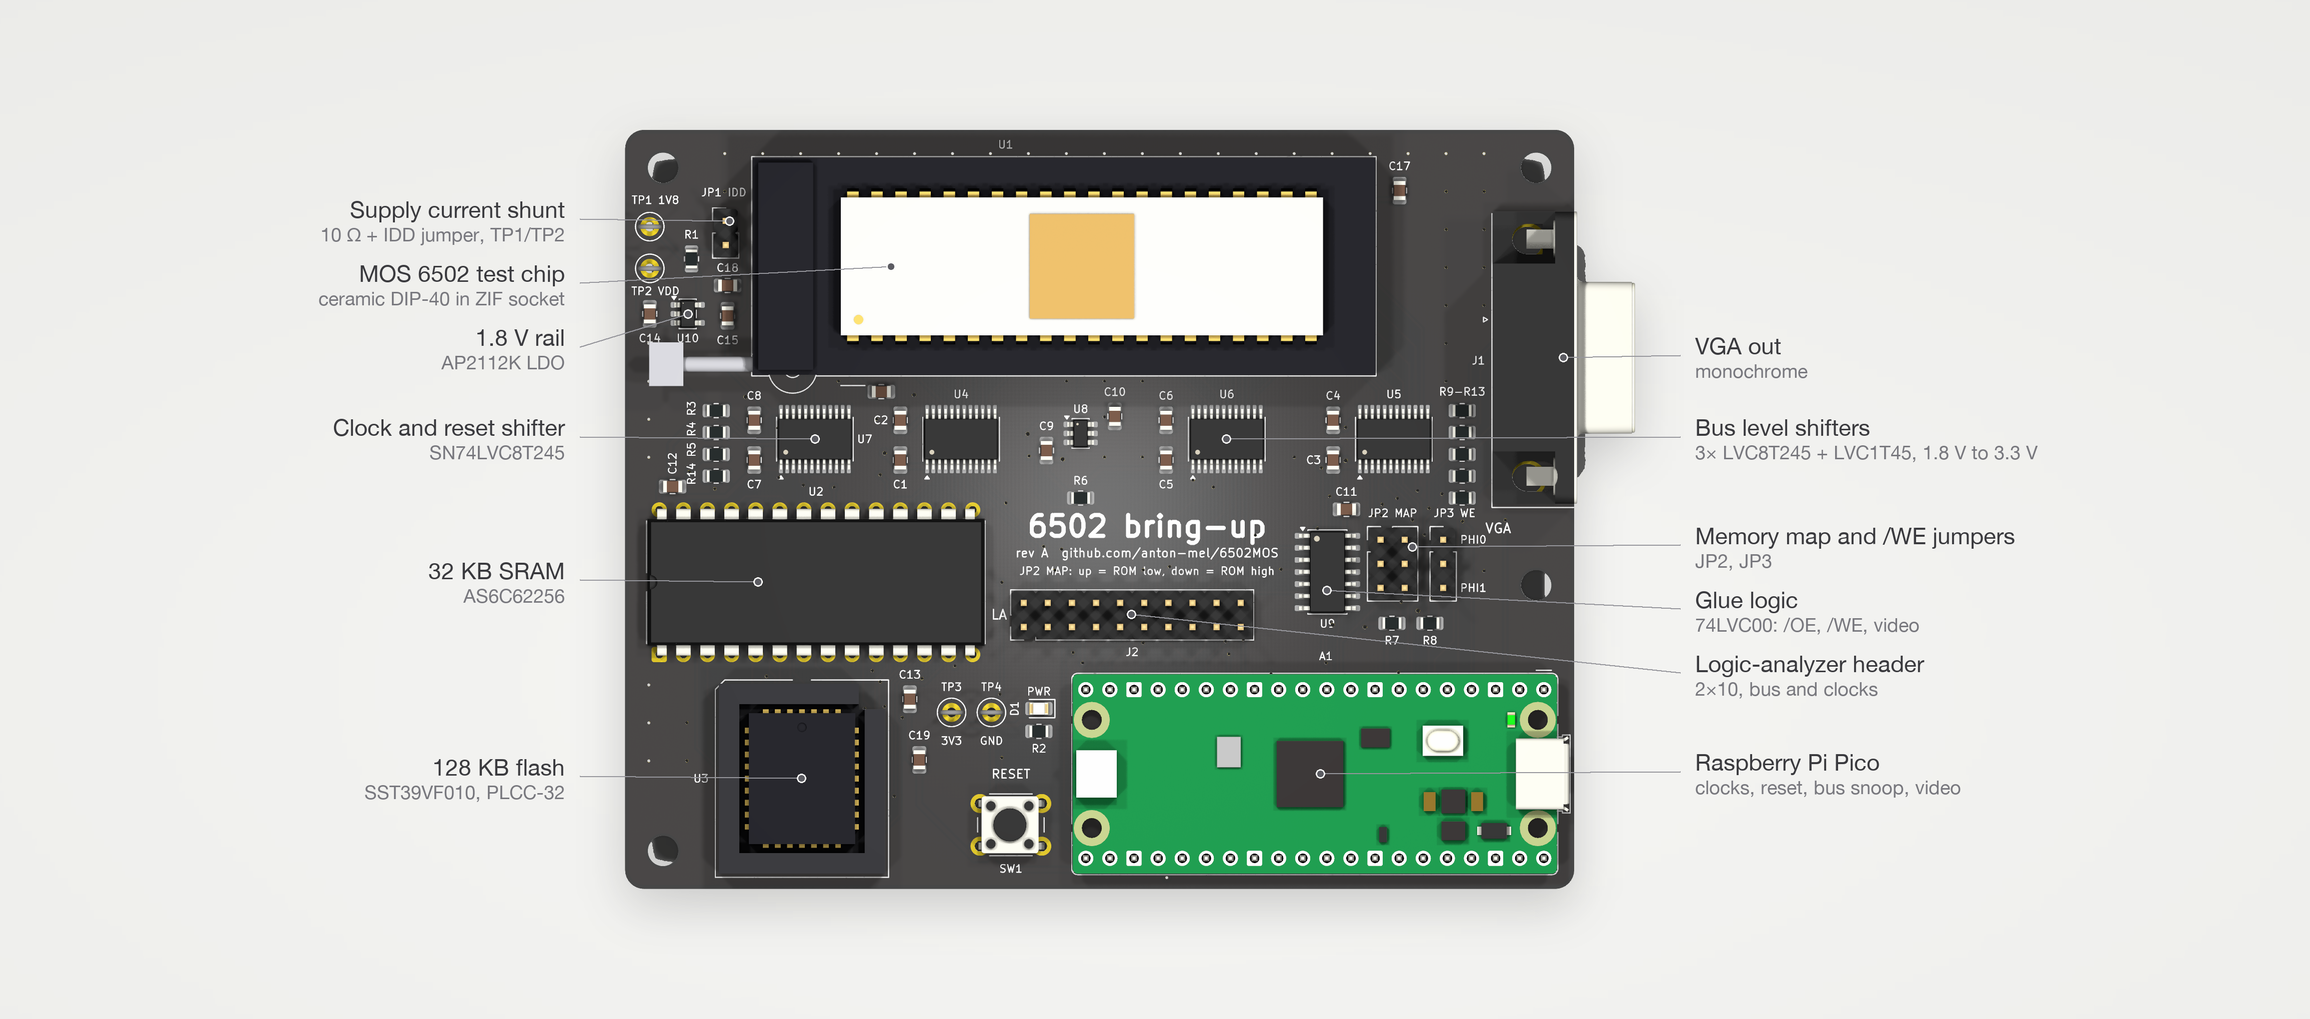
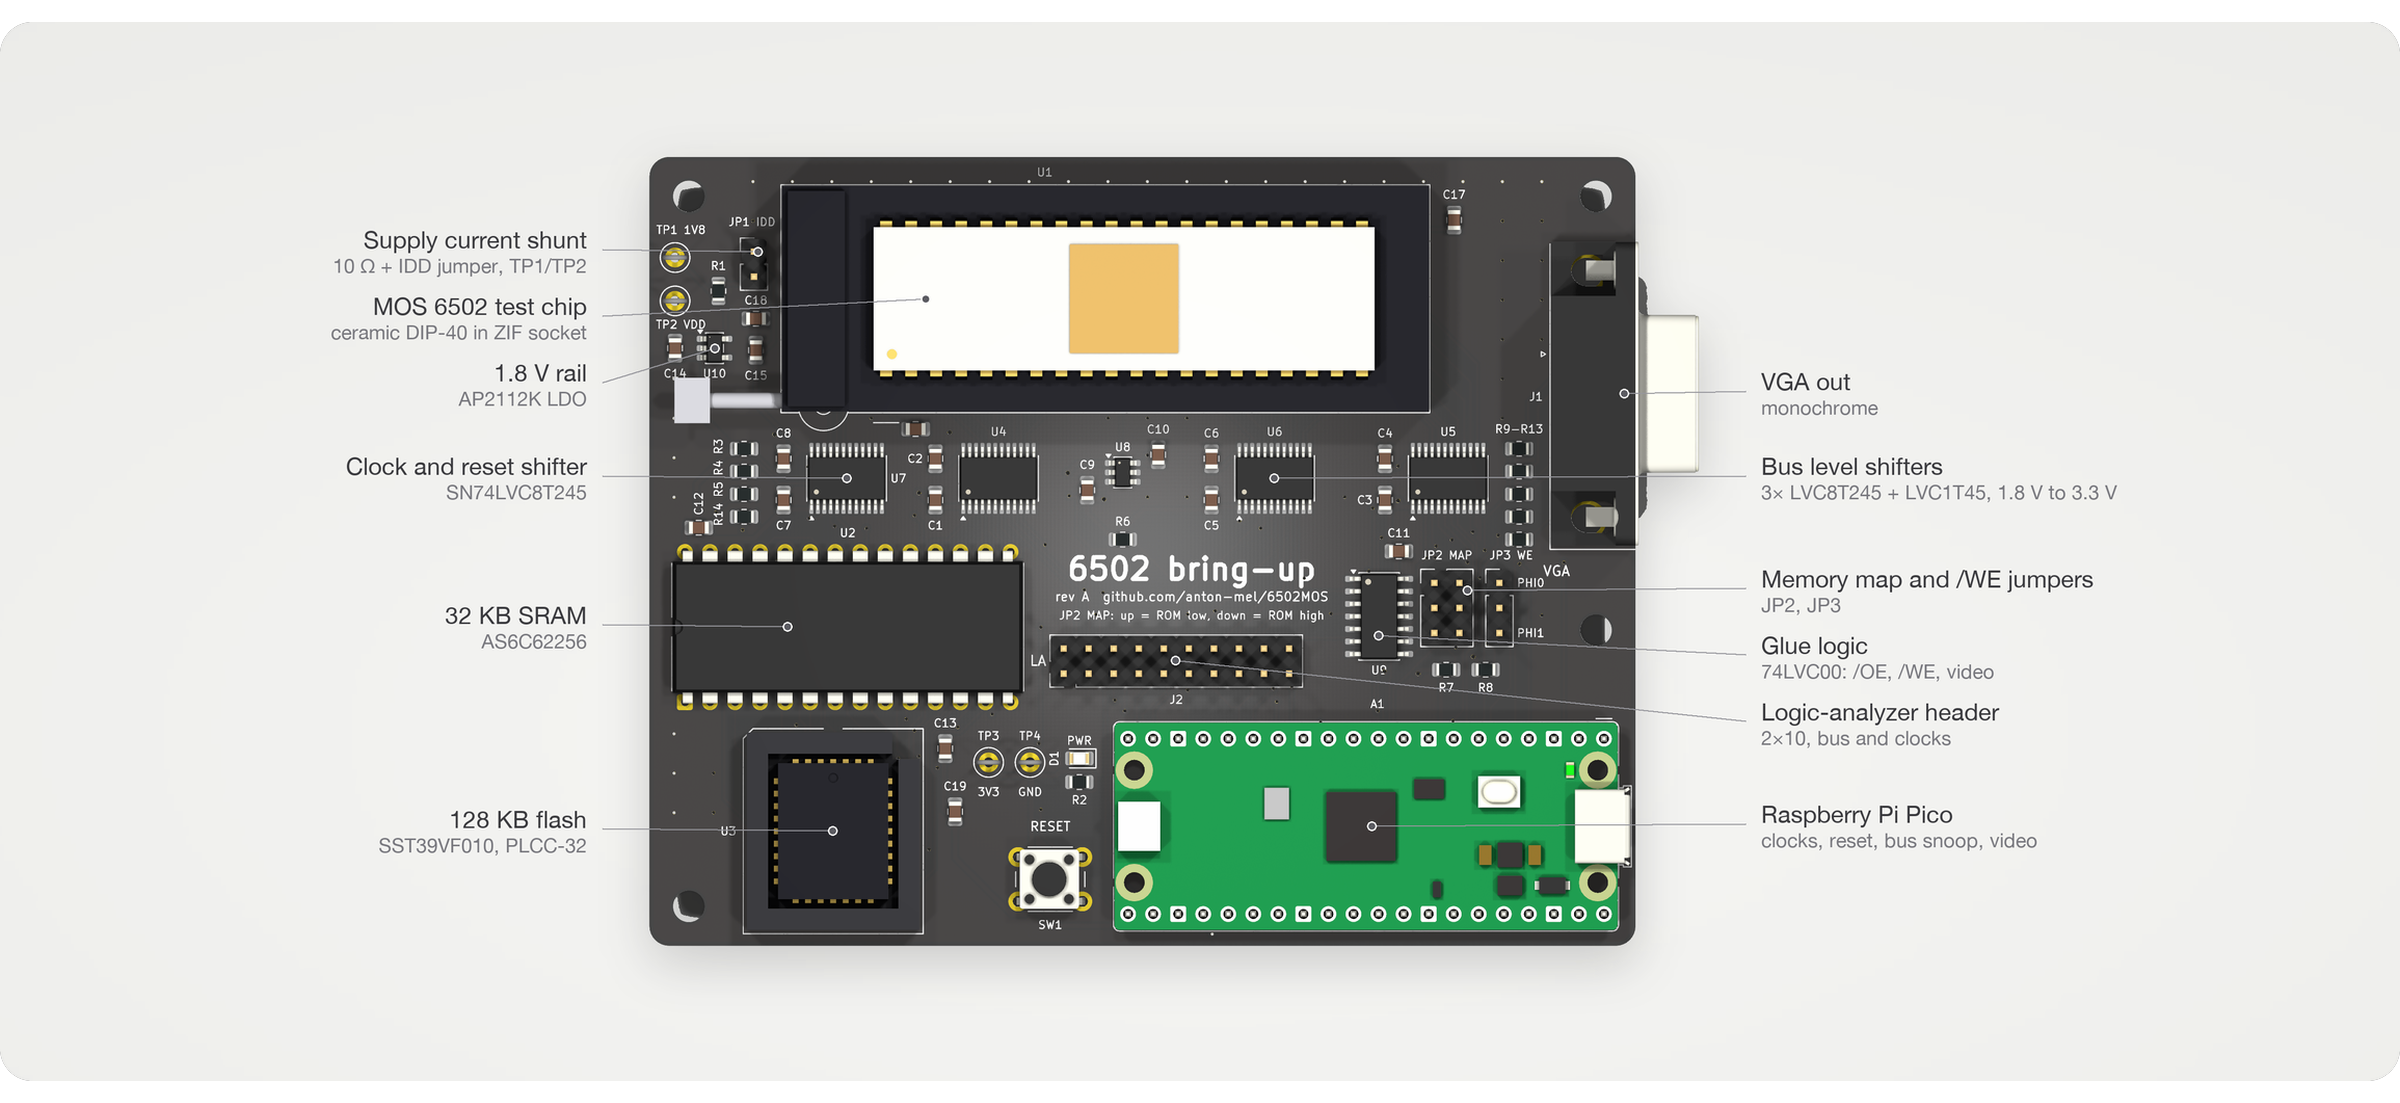
Round board render corners

diff --git a/README.md b/README.md
@@ -4,4 +4,4 @@ A simplified version of the MOS 6502 8-bit microprocessor with only a subset of 
 
 <img width="3840" height="2160" alt="6502_presented" src="https://github.com/user-attachments/assets/f0cbfdd2-041d-4644-abaa-63854cf70c2e" />
 
-<img width="900" alt="6502 bring-up board, labeled" src="pcb/fab/render_top.png" />
+<img width="100%" alt="6502 bring-up board, labeled" src="pcb/fab/render_top.png" />
